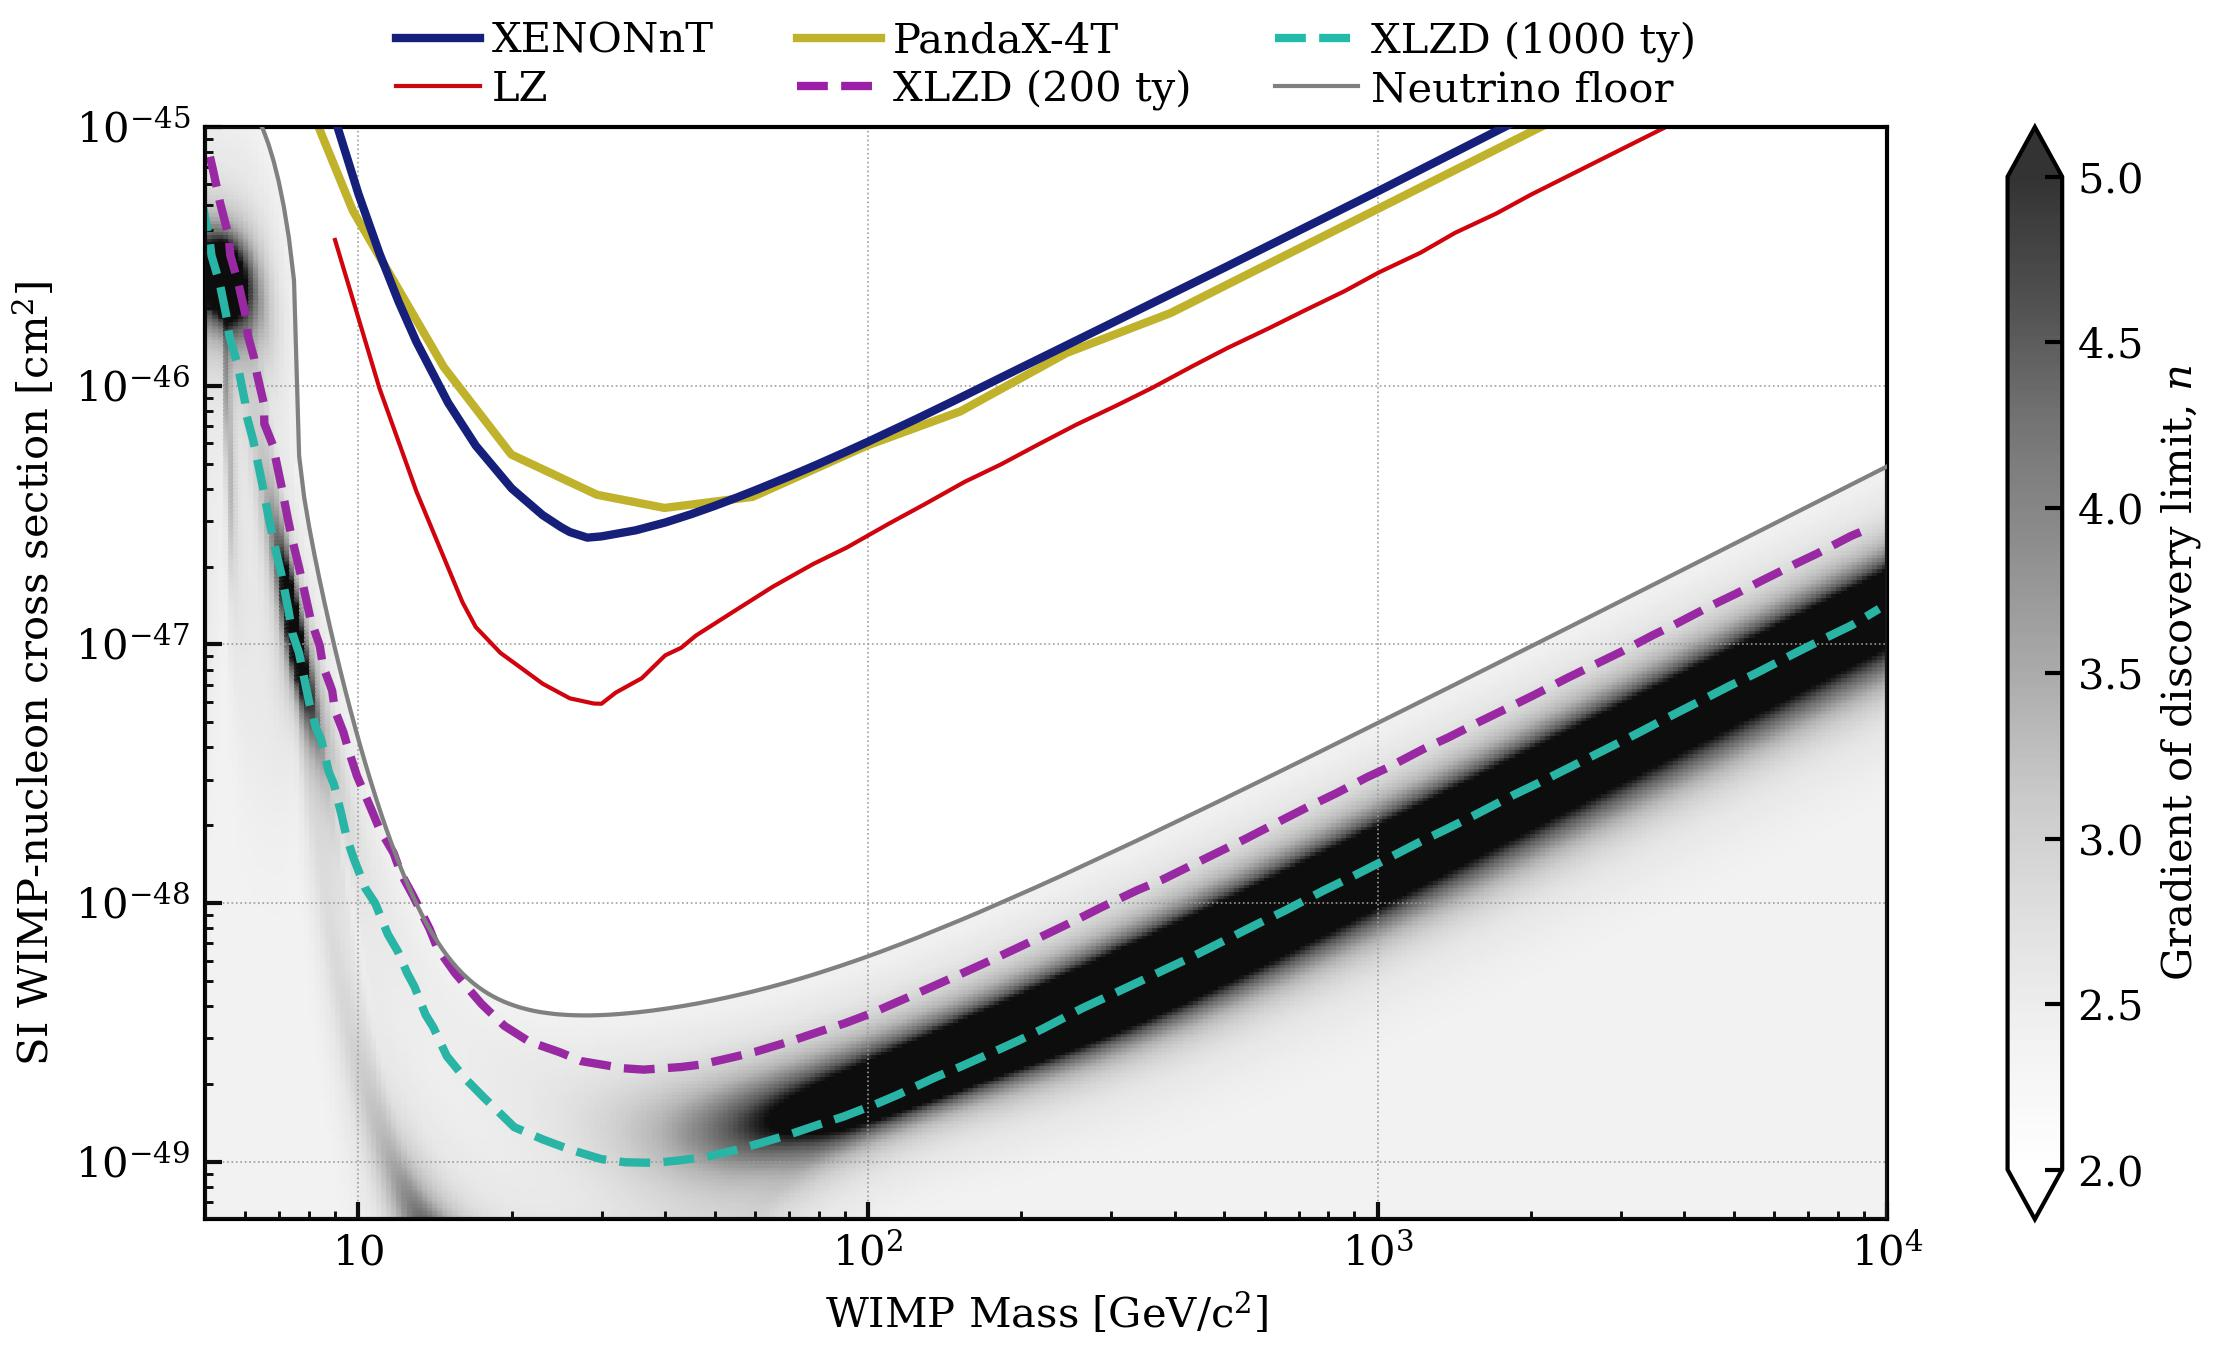
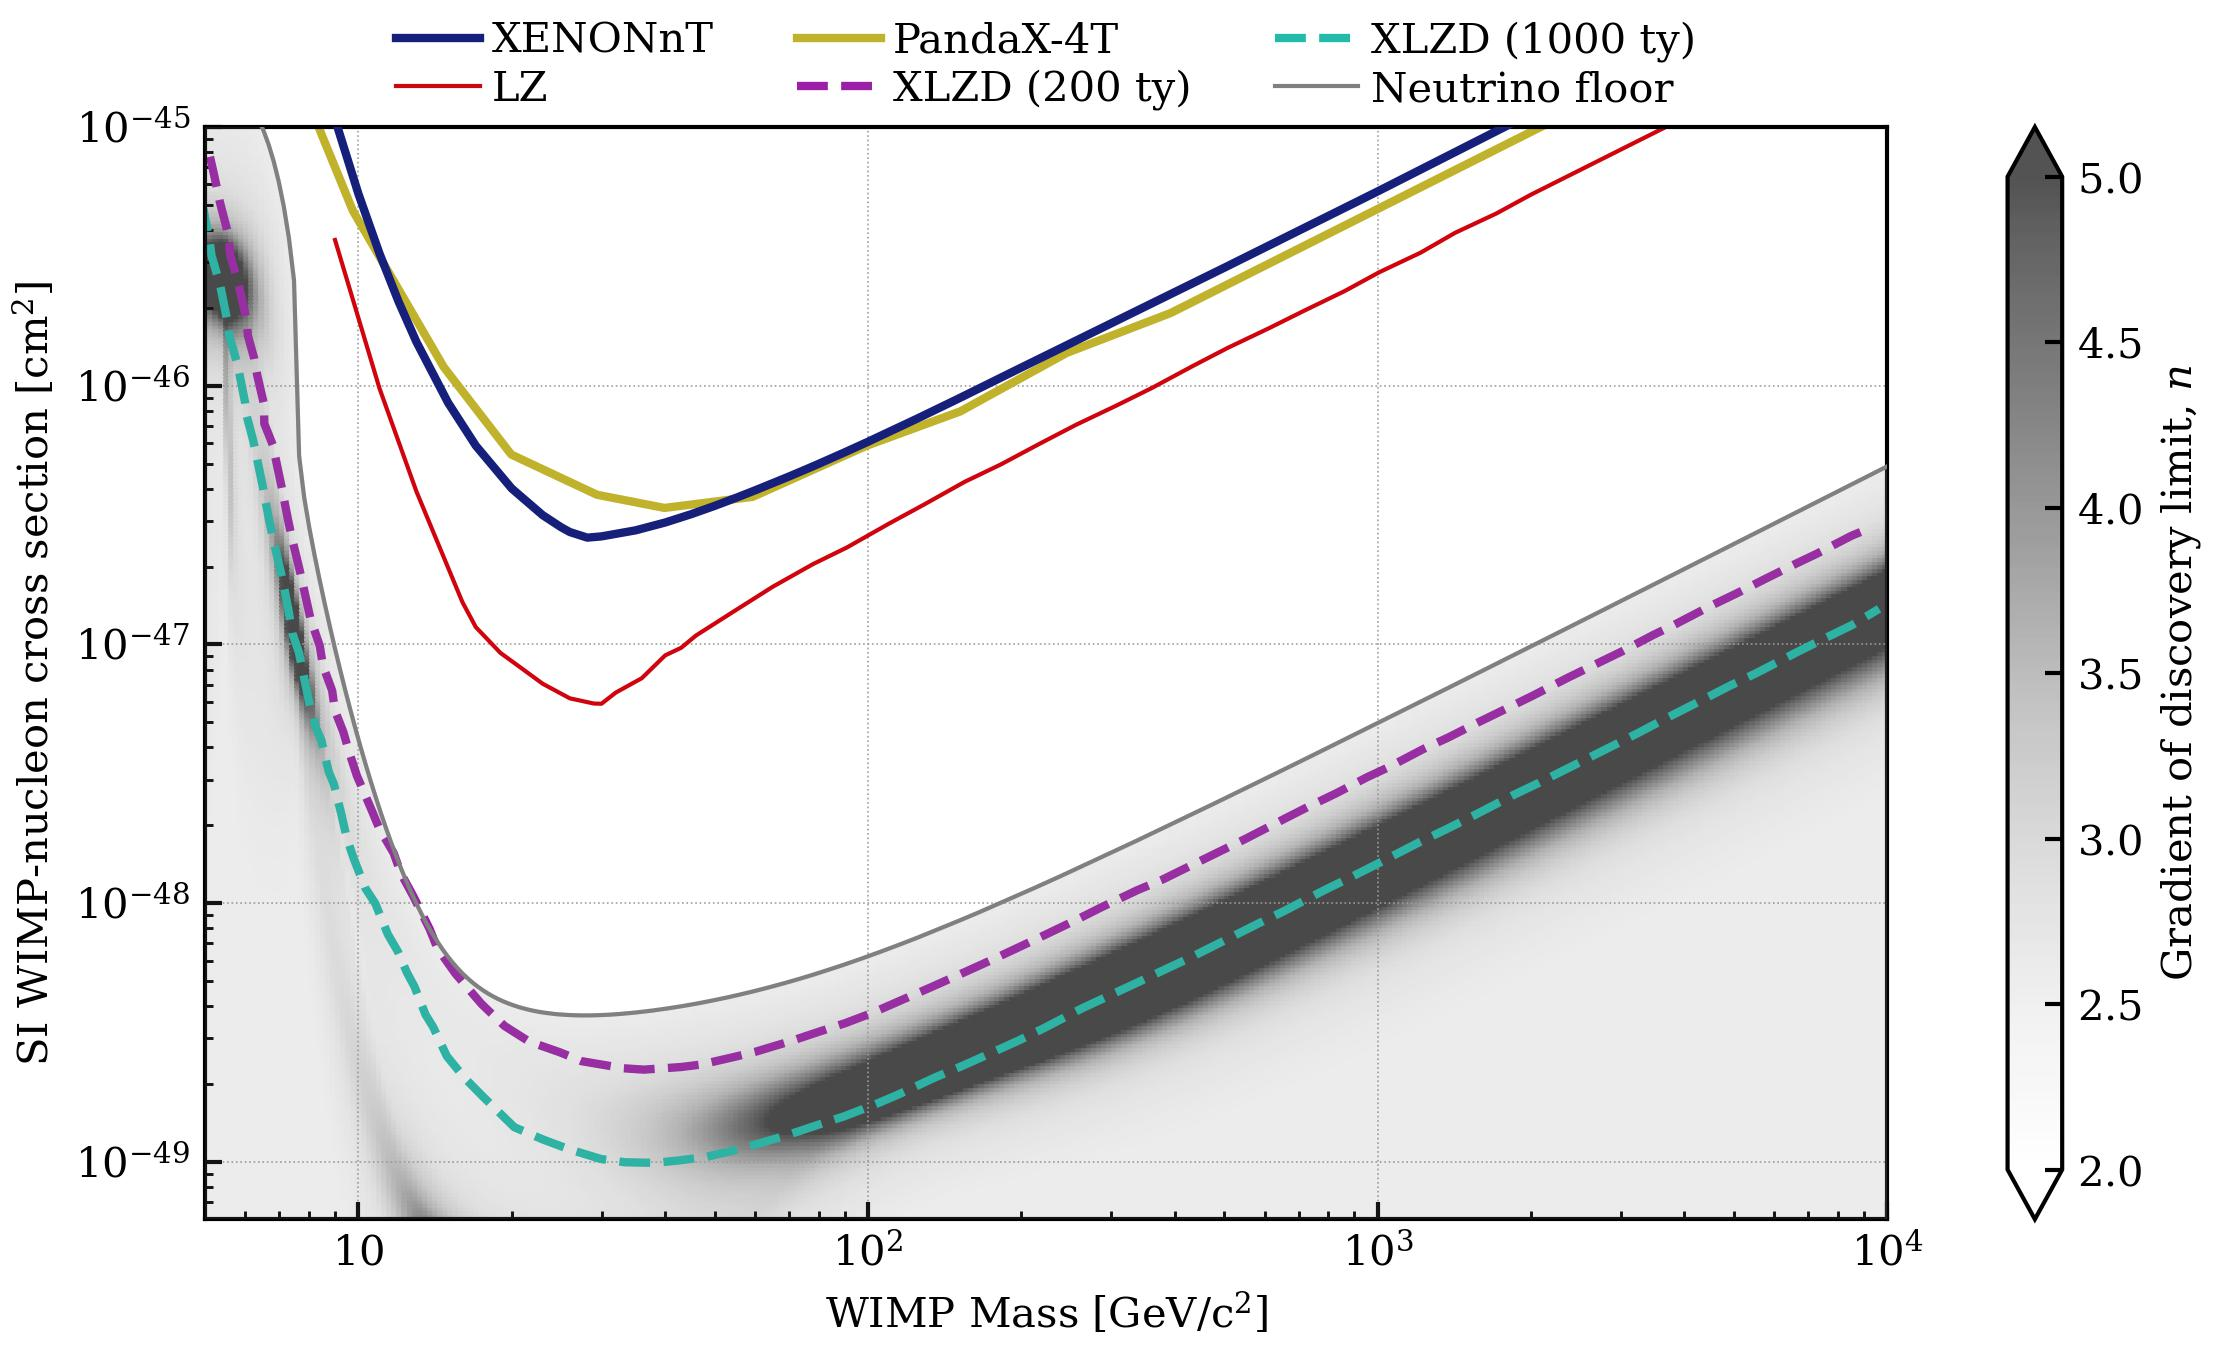
Not as dark fog

diff --git a/XENONnT/upper_limits_XLZD.py b/XENONnT/upper_limits_XLZD.py
@@ -16,10 +16,15 @@ cm = mpl.colormaps.get_cmap('Greys')
 
 # Get the colormap colors, multiply them with the factor "a", 
 # and create new colormap
-a = 1
-cmap = plt.cm.Greys(np.arange(plt.cm.Greys.N))
-cmap[:,0:3] *= a 
-cmap = ListedColormap(cmap)
+#a = 1
+#cmap = plt.cm.Greys(np.arange(plt.cm.Greys.N))
+#cmap = np.clip(cmap[:,0:3] * a,0,1)
+#cmap = ListedColormap(cmap)
+
+original_cmap = plt.cm.Greys  # Replace with your original cmap if different
+new_colors = original_cmap(np.linspace(0, 0.8, 256))  # Use only the first half
+cmap = ListedColormap(new_colors)
+
 
 plt.style.use('/home/atp/rperes/notebooks/thesis_plots/thesis_style.mplstyle')
 
@@ -120,10 +125,10 @@ def plot_nu_floor(figax = None):
     sct = ax.scatter(_xx, _yy,c = DY,#levels=linspace(1.5,11,100),
                       vmax=vmax,vmin=vmin, 
                       cmap=cmap,
-                      s=2,marker = 's',rasterized=False,alpha = 0.8)
+                      s=2,marker = 's',rasterized=False,alpha = 0.9)
     #_x = [m[0],m[-1]]
     ax.fill_between(x = m,y1=np.zeros(len(m)),y2=NUFLOOR,
-                    color='grey',zorder=100, alpha = 0.1,)
+                    color='grey',zorder=100, alpha = 0.15,)
                     #label = 'Neutrino fog')
     ax.plot(m,NUFLOOR,color='grey',
             zorder=100, alpha = 1, lw = 1,
